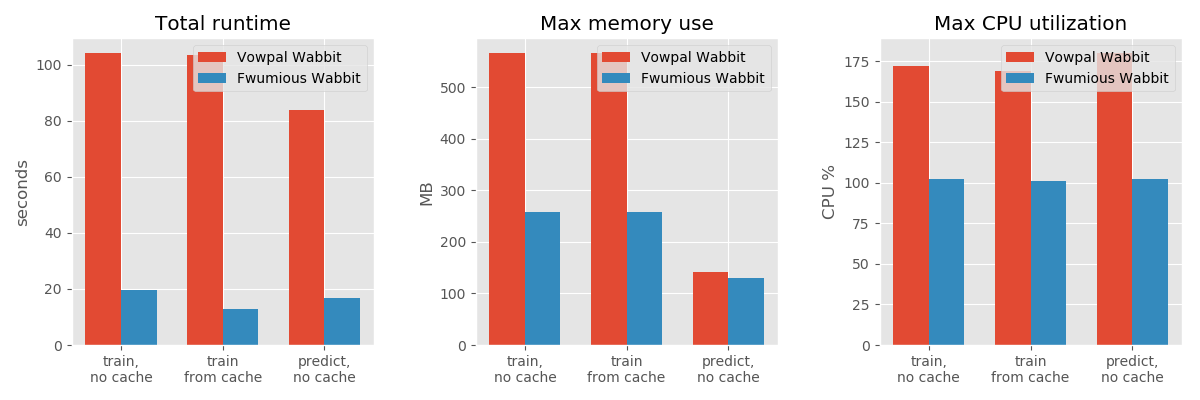
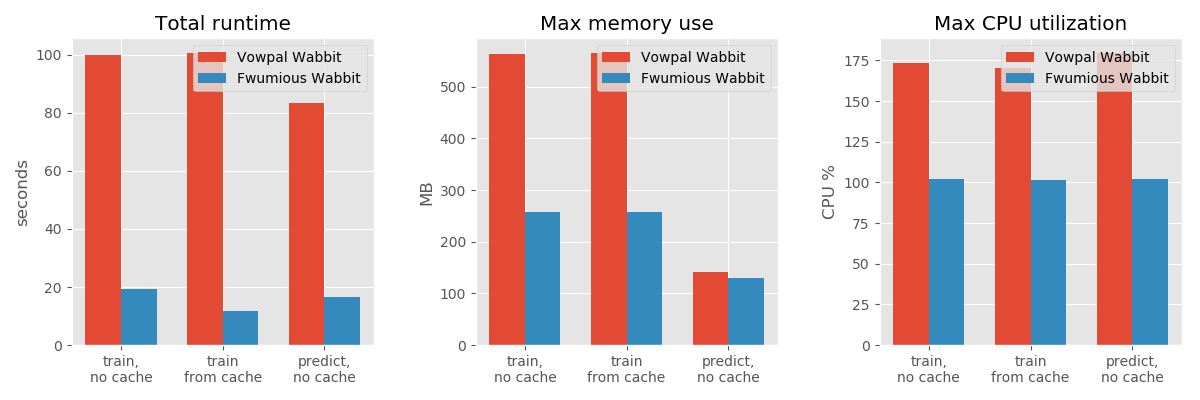
bumping version & benchmark info

diff --git a/src/version.rs b/src/version.rs
@@ -1,1 +1,1 @@
-pub static LATEST: &str = "1.3";
+pub static LATEST: &str = "1.4";

diff --git a/BENCHMARK.md b/BENCHMARK.md
@@ -14,12 +14,12 @@ here are the results for 3 runs for each scenario, taking mean values:
 ![benchmark results](benchmark_results.png)
 Scenario|Runtime (seconds)|Memory (MB)|CPU %
 ----|----:|----:|----:
-vw train, no cache|104.13 | 566 | 171.77
-fw train, no cache|19.78 | 258 | 102.10
-vw train, using cache|103.48 | 566 | 168.70
-fw train, using cache|12.73 | 258 | 101.27
-vw predict, no cache|83.82 | 141 | 179.97
-fw predict, no cache|16.94 | 130 | 102.37
+vw train, no cache|100.05 | 563 | 173.73
+fw train, no cache|19.42 | 258 | 102.23
+vw train, using cache|100.63 | 566 | 170.13
+fw train, using cache|11.82 | 259 | 101.70
+vw predict, no cache|83.34 | 141 | 179.63
+fw predict, no cache|16.54 | 130 | 102.10
 
 ### Model equivalence
 loss values for the test set:
@@ -82,7 +82,7 @@ or, if you just want the numbers with less dependencies run:
 ### versions:
 ```
 vowpal wabbit 8.9.2 (git commit: 884420267)
-fwumious wabbit 1.3 (git commit: a98c1e6)
+fwumious wabbit 1.4 (git commit: 1cb7abe)
 ```
 
 ### CPU Info
